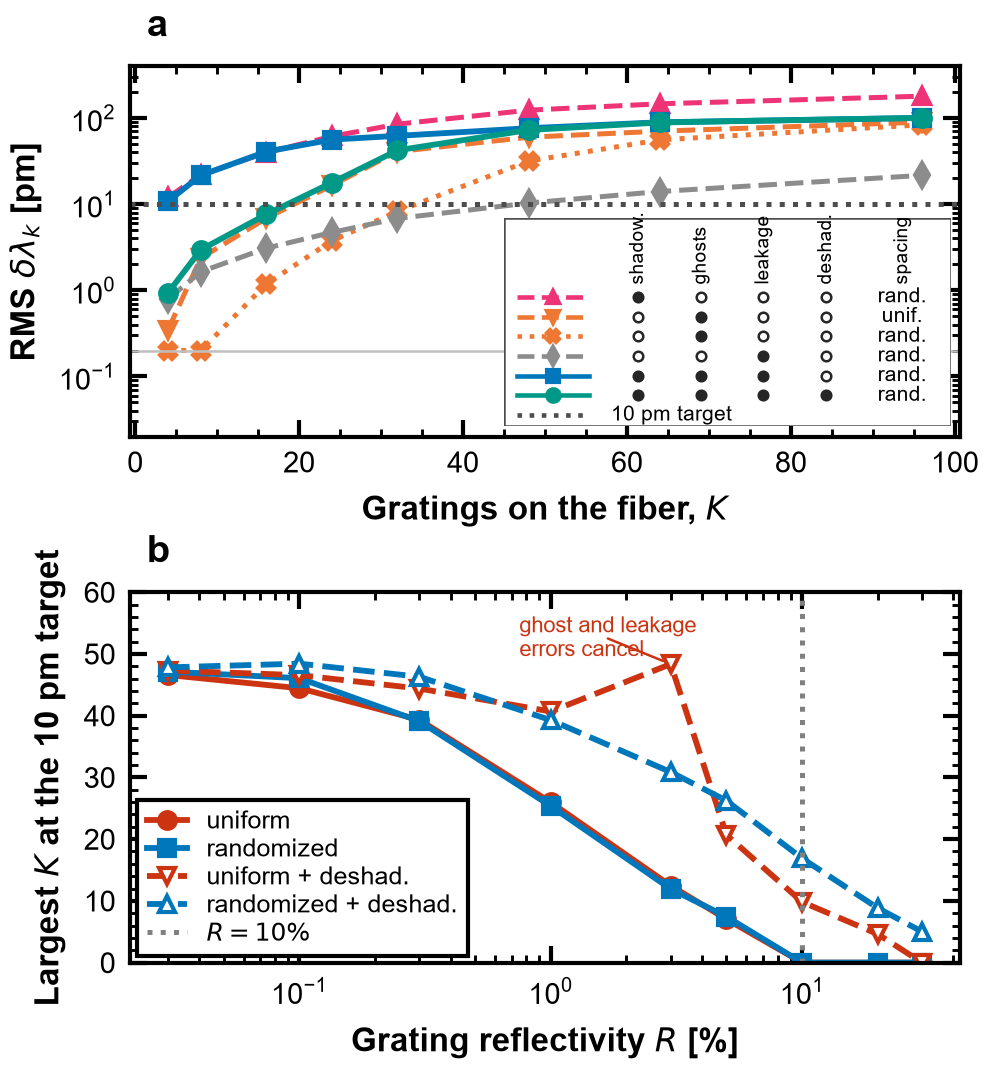
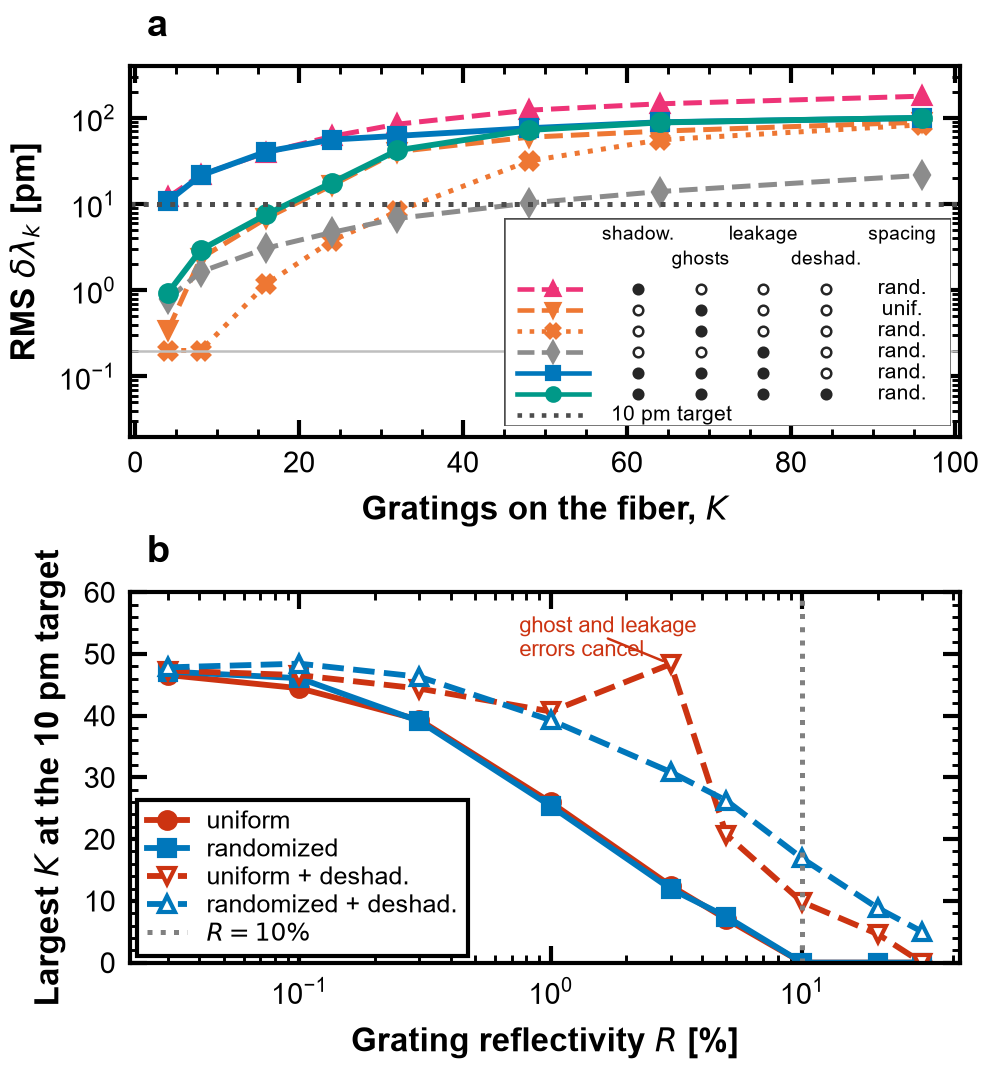
s12: horizontal table headers staggered in two rows

Changed region(s): [[0.6079, 0.1852, 0.9422, 0.3704], [0.5167, 0.247, 0.6079, 0.3704]]

diff --git a/python_selfcal_cdm/s12_capacity.py b/python_selfcal_cdm/s12_capacity.py
@@ -320,9 +320,9 @@ ROWS = [('^', '--', FS.PURPLE, (1, 0, 0, 0), 'rand.'),
         ('s', '-', FS.BLUE, (1, 1, 1, 0), 'rand.'),
         ('o', '-', FS.C_CORR, (1, 1, 1, 1), 'rand.'),
         (None, ':', '0.3', None, '%.0f pm target' % TARGET_PM)]
-_ys = np.linspace(0.62, 0.05, len(ROWS))
-for lab, xc in COLS:
-    tab.text(xc, 0.68, lab, ha='center', va='bottom', fontsize=4.6, rotation=90)
+_ys = np.linspace(0.66, 0.05, len(ROWS))
+for i, (lab, xc) in enumerate(COLS):   # horizontal headers, staggered in two rows so that narrow columns do not collide
+    tab.text(xc, 0.92 if i % 2 == 0 else 0.80, lab, ha='center', va='center', fontsize=4.6)
 for (mk, ls, col, on, sp), y in zip(ROWS, _ys):
     tab.plot([0.03, 0.19], [y, y], ls=ls, color=col, lw=1.1)
     if mk is not None:
